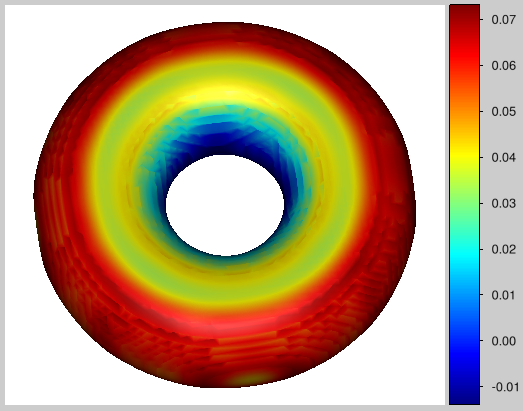
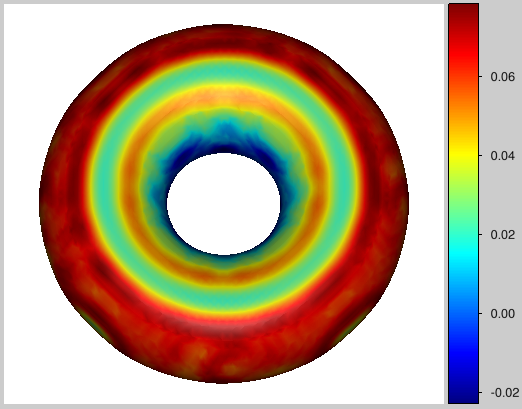
new formula for computing mean curvature 2D

diff --git a/fast_mean_curvature_2D.py b/fast_mean_curvature_2D.py
@@ -9,23 +9,37 @@ import  skfmm
 import imageio
 import matplotlib.pyplot as plt
 
+import fast_Gaussian_curvature_3D as g3D
 
-## signed geodesic distance
-def phi(mask):
 
-    phi_ext = skfmm.distance(np.max(mask)-mask)
-    phi_int = skfmm.distance(mask)
 
-    return phi_ext - phi_int
 
-## signed Euclidean distance
-def phi_Euclidean(mask):
+def L2_norm_grad2D(gx,gy):
 
-    phi_ext = ndimage.distance_transform_edt(np.max(mask)-mask)
-    phi_int = ndimage.distance_transform_edt(mask)
+    norm_grad =  np.sqrt(np.square(gx)+np.square(gy))
+    gaussian_filter(norm_grad, sigma=1, output=norm_grad)
+    norm_grad[np.where(norm_grad==0)]=1 # just to avoid dividing by zero
 
-    return phi_ext - phi_int
+    return  norm_grad
 
+
+
+def hessian_trace2D(hessian):
+
+    return hessian[0,0,...] + hessian[1,1,...]
+
+
+def mean_curvature(phi_grad,hessian):
+
+    gx, gy = phi_grad
+
+    mean_curv =  (gx * (gx*hessian[0,0,...]+gy*hessian[1,0,...]) + gy * (gx*hessian[0,1,...]+gy*hessian[1,1,...]))\
+    - (L2_norm_grad2D(gx,gy)**2 *  hessian_trace2D(hessian))
+
+    np.divide(mean_curv,-2*L2_norm_grad2D(gx,gy)**3,mean_curv)
+    gaussian_filter(mean_curv, sigma=2, output=mean_curv)
+
+    return mean_curv
 
 
 def curvature(phi):
@@ -47,7 +61,7 @@ def curvature(phi):
 
 def plot_curvature(phi, curvature, image, out_name):
 
-    contours = np.where(np.logical_and(phi<=0.4, phi>=-0.4))
+    contours = np.where(np.logical_and(phi<=0.3, phi>=-0.3))
     x,y = contours[0], contours[1]
     plt.imshow(image,cmap='gray')
     plt.scatter(y, x, s=1, c= curvature[x,y], cmap='jet')
@@ -73,7 +87,8 @@ if __name__ == '__main__':
 
     args = parser.parse_args()
 
-    # Example of use : python3 fast_mean_curvature_2D.py -anat ./2D_data/anatomical_T1.png -in ./2D_data/wm.png
+    # Example of use : python3 fast_mean_curvature_2D.py -anat /home/karim/Bureau/Courbure/2D_data/anatomical_T1.png
+    #-in /home/karim/Bureau/Courbure/2D_data/cortex.png -o /home/karim/Bureau/Courbure/test2D
 
     output_path = args.output
 
@@ -86,10 +101,18 @@ if __name__ == '__main__':
     anat = imageio.imread(args.anatomical)
 
 
-    phi = phi(shape)
+    phi = g3D.phi(shape)
 
     gaussian_filter(phi, sigma=2, output=phi)
 
-    curvature = curvature(phi)
+    ########## Compute mean curvature ###################
+
+    #curvature = curvature(phi)
+
+    phi_grad, hessian = g3D.hessian(phi)
+    curvature = mean_curvature(phi_grad,hessian)
+
+    ######################################################
+
 
     plot_curvature(phi, curvature, anat, output_path+'/mean_curvature.png')

diff --git a/fast_mean_curvature_3D.py b/fast_mean_curvature_3D.py
@@ -27,7 +27,7 @@ import CurvatureISF as ISFcurv
 
 def hessian_trace(hessian):
 
-    return hessian[0,0,...]+hessian[1,1,...]+hessian[2,2,...]
+    return hessian[0,0,...] + hessian[1,1,...] + hessian[2,2,...]
 
 
 def mean_curvature(phi_grad,hessian):
@@ -37,10 +37,10 @@ def mean_curvature(phi_grad,hessian):
     mean_curv =  (gx * (gx*hessian[0,0,...]+gy*hessian[1,0,...]+gz*hessian[2,0,...]) + gy * (gx*hessian[0,1,...]+gy*hessian[1,1,...]+gz*hessian[2,1,...])\
     + gz * (gx*hessian[0,2,...]+gy*hessian[1,2,...]+gz*hessian[2,2,...])) - (g3D.L2_norm_grad(gx,gy,gz)**2 *  hessian_trace(hessian))
 
-    np.divide(mean_curv,2*g3D.L2_norm_grad(gx,gy,gz)**3,mean_curv)
-    gaussian_filter(mean_curv, sigma=1, output=mean_curv)
+    np.divide(mean_curv,-2*g3D.L2_norm_grad(gx,gy,gz)**3,mean_curv)
+    #gaussian_filter(mean_curv, sigma=1, output=mean_curv)
 
-    return -mean_curv
+    return mean_curv
 
 
 
@@ -71,12 +71,12 @@ if __name__ == '__main__':
 
     parser = argparse.ArgumentParser()
     parser.add_argument('-in', '--mask', help='3D shape binary mask, as NIFTI file', type=str, required = True)
-    parser.add_argument('-o', '--output', help='output directory', type=str, default = './curvature_results')
+    parser.add_argument('-o', '--output', help='output directory', type=str, default = './mean_curvature_results3D')
     parser.add_argument('-dmap', '--dmap', help='distance_map: 0 if Euclidean, 1 if geodesic distance map, and 2 if binary step function', type=int, default = 1)
 
     args = parser.parse_args()
 
-    # Example of use : python3 fast_mean_curvature_3D.py -in ./3D_data/stanford_bunny_binary.nii.gz -dmap 0
+    # Example of use : python3 fast_mean_curvature_3D.py -in ./3D_data/stanford_bunny_binary.nii.gz
 
     output_path = args.output
 

diff --git a/fast_Gaussian_curvature_3D.py b/fast_Gaussian_curvature_3D.py
@@ -126,7 +126,7 @@ def Hessian_adjoint_curvature(phi_grad,Ha):
     + gz * (gx*Ha[0,2,...]+gy*Ha[1,2,...]+gz*Ha[2,2,...])
     #np.divide(gaussian_curv,np.power(L2_norm_grad(gx,gy,gz),4),gaussian_curv)
     np.divide(curvature,L2_norm_grad(gx,gy,gz)**3,curvature)
-    gaussian_filter(curvature, sigma=1, output=curvature)
+    #gaussian_filter(curvature, sigma=1, output=curvature)
 
     return curvature
 
@@ -177,7 +177,7 @@ def display_mesh(verts, faces, normals, texture, save_path):
     mesh.colormap = vv.CM_JET
     #mesh.edgeShading = 'smooth'
     #mesh.clim = np.min(texture),np.max(texture)
-    #mesh.clim = -0.01, 0.01
+    #mesh.clim = -0.2, 0.2
     vv.callLater(1.0, vv.screenshot, save_path, vv.gcf(), sf=2)
     vv.colorbar()
     #vv.view({'azimuth': 45.0, 'elevation': 45.0})
@@ -191,7 +191,7 @@ if __name__ == '__main__':
 
     parser = argparse.ArgumentParser()
     parser.add_argument('-in', '--mask', help='3D shape binary mask, as NIFTI file', type=str, required = True)
-    parser.add_argument('-o', '--output', help='output directory', type=str, default = './Gaussian_curvature_results')
+    parser.add_argument('-o', '--output', help='output directory', type=str, default = './Gaussian_curvature_results3D')
     parser.add_argument('-dmap', '--dmap', help='distance_map: 0 if Euclidean, 1 if geodesic distance map, and 2 if binary step function', type=int, default = 1)
 
     args = parser.parse_args()
